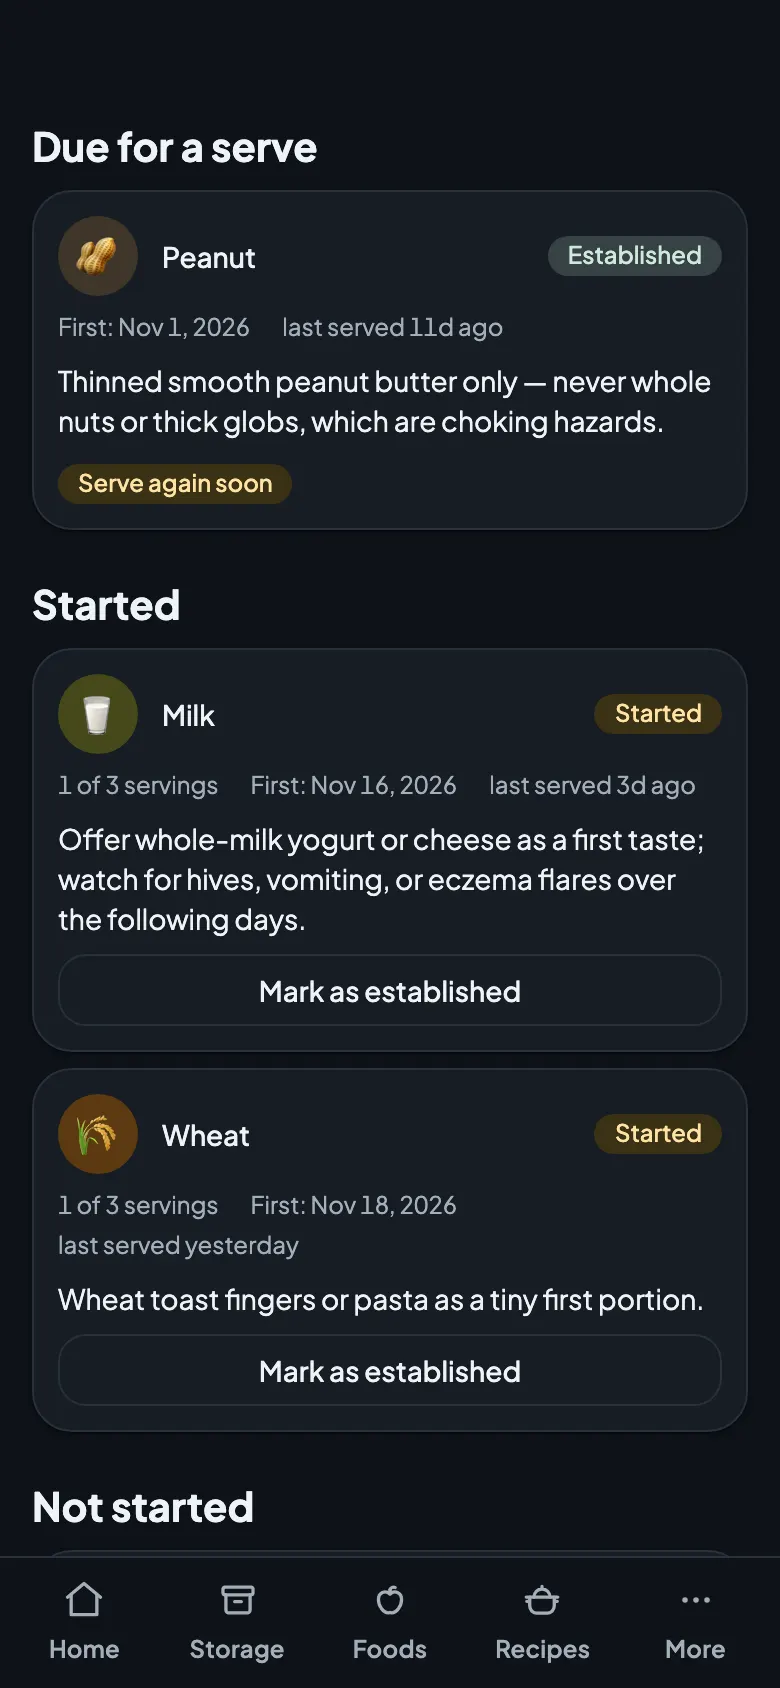
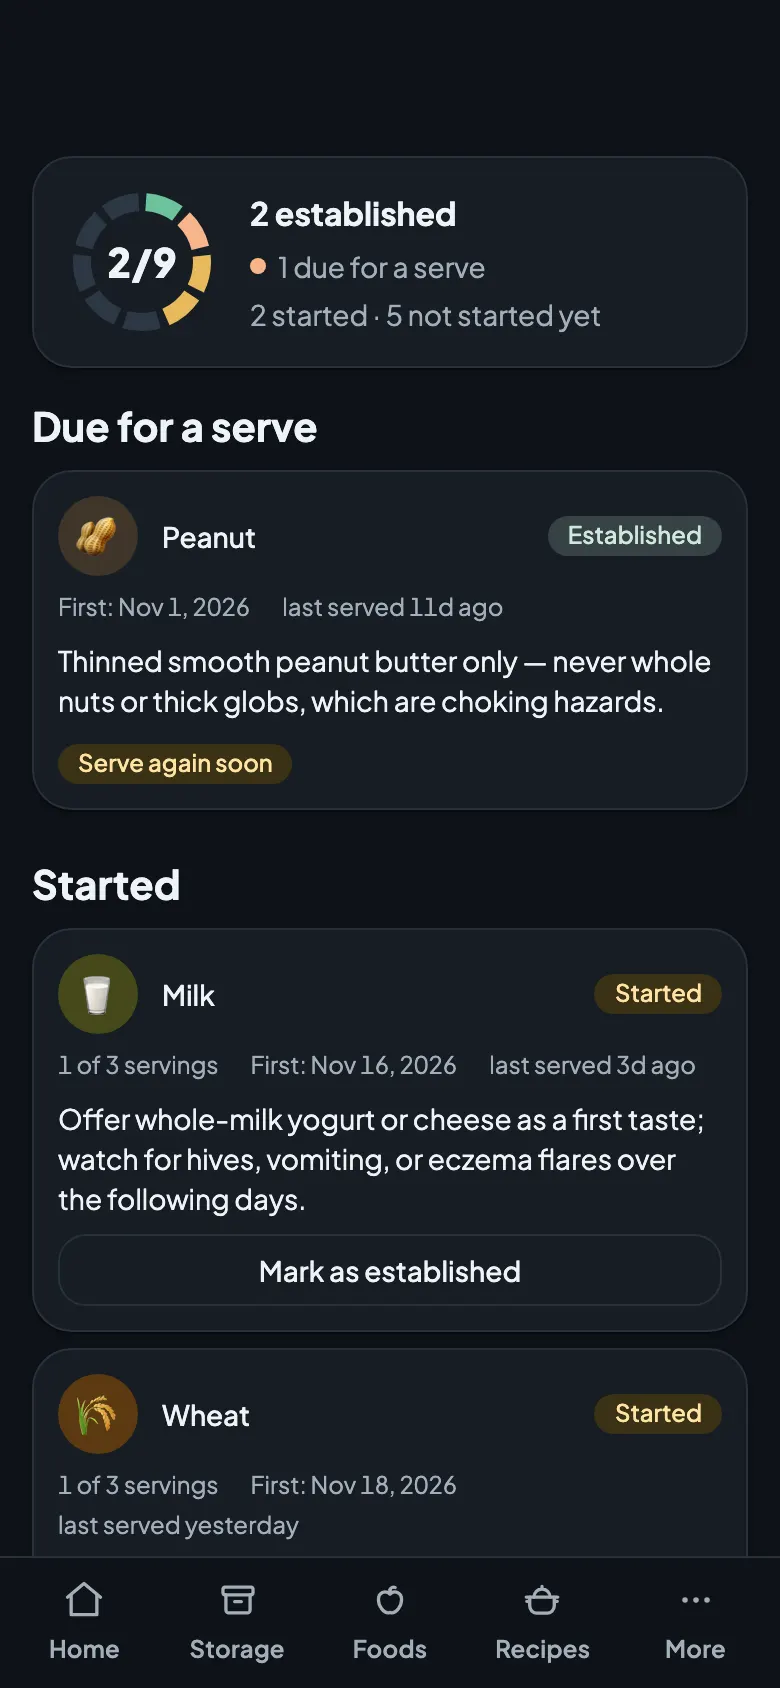
Landing: retake the allergen shot with the ladder page's new progress ring at the top (ledger 1011)
The ladder page now opens with Home's ring card; the shot puts it right
under the brand (y 78-184), then "Due for a serve" and Peanut. Light +
dark, same recipe as 1007. Alt updated to match.

Changed region(s): [[0.0308, 0.0616, 0.9231, 0.9242], [0.7077, 0.3081, 0.9231, 0.3389], [0.4, 0.8626, 0.5846, 0.8934]]

diff --git a/client/src/features/landing/slides.ts b/client/src/features/landing/slides.ts
@@ -39,7 +39,7 @@ export const LANDING_SLIDES: readonly LandingSlide[] = [
     title: "Introduce allergens step by step.",
     body: "Work through the top 9, with a nudge when one is due for a serve.",
     shot: "allergens",
-    alt: "Allergen ladder: Peanut is established and due for a serve, with Milk and Wheat started below.",
+    alt: "Allergen ladder with the progress ring at the top, 2 of 9 established, then Peanut, established and due for a serve.",
   },
   {
     title: "Find iron-rich foods.",
